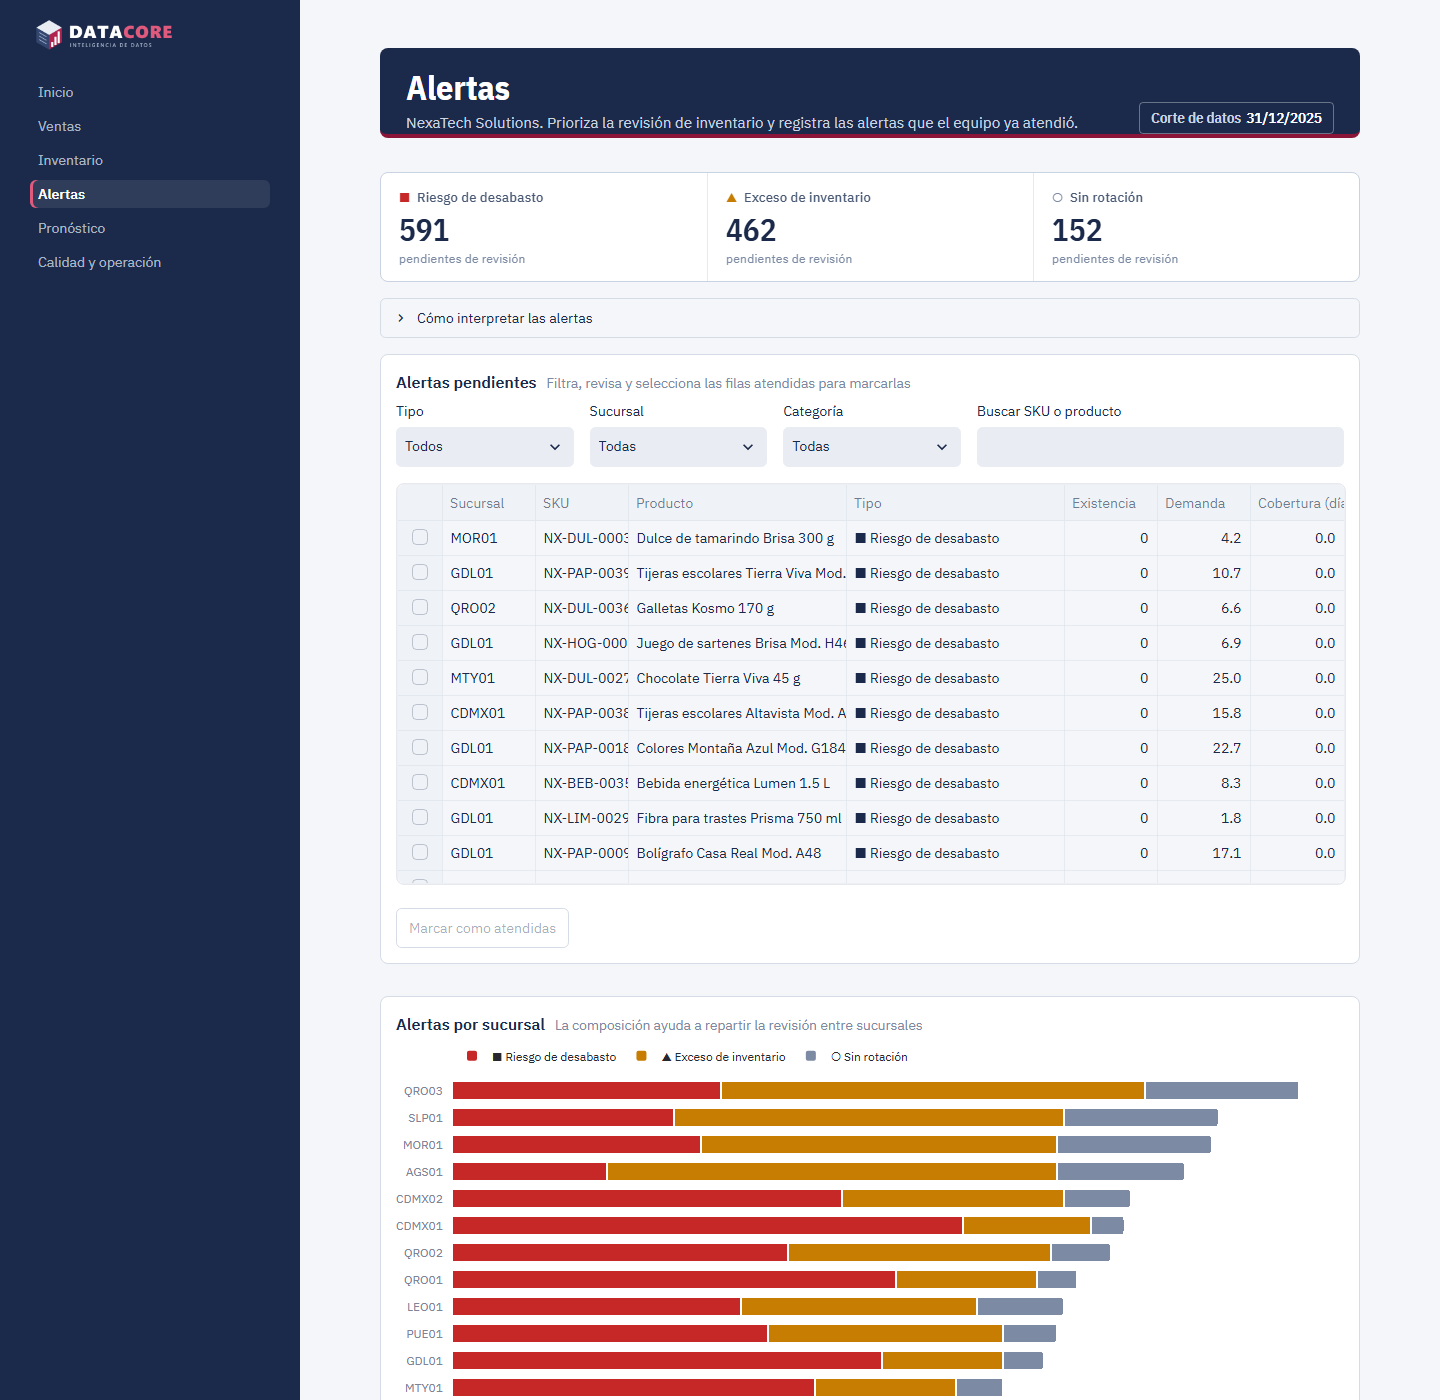
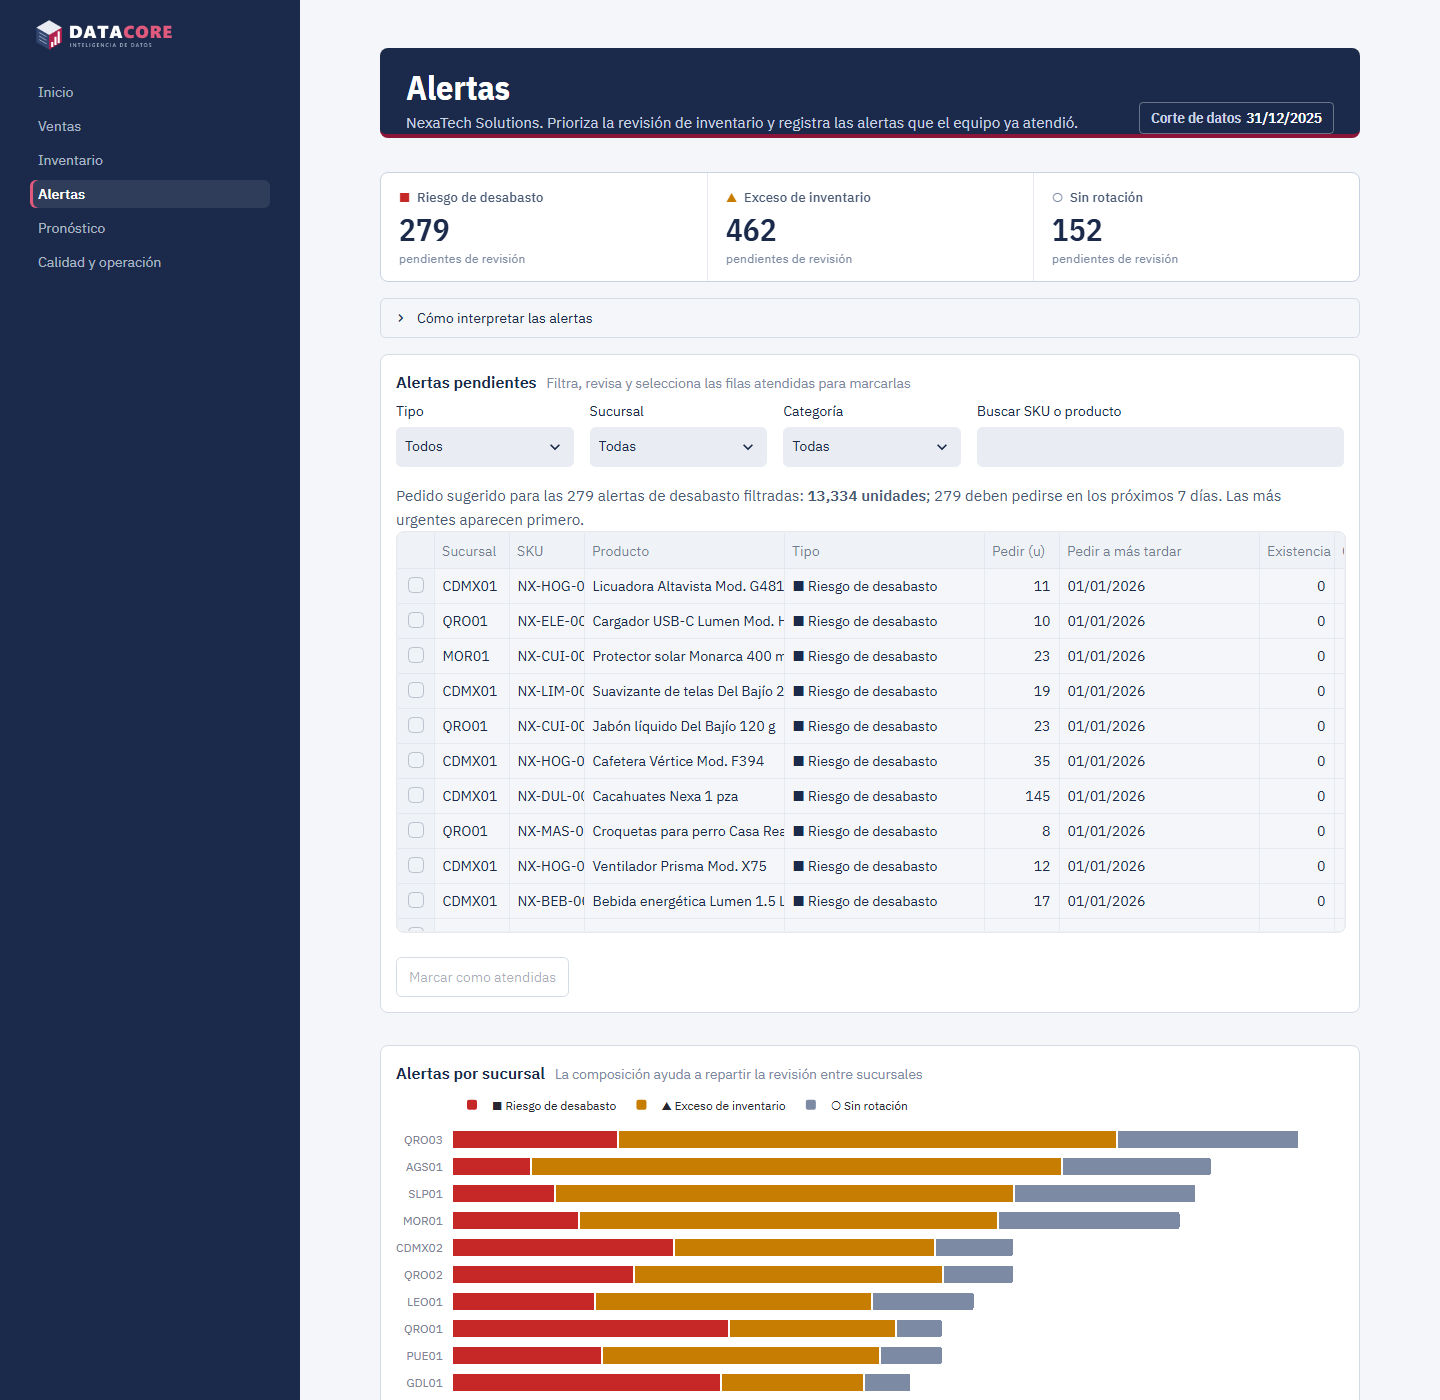
Fase 6: documentación y capturas al día con las mejoras
- README: tabla de estado con las fases de mejora (impacto, alertas, pedido sugerido, "¿por qué?",
  despliegue elegido en Azure for Students sin ejecutar) y descripción actualizada de Alertas e Inventario.
- Manual técnico: comandos `ml impacto`, `ml alertas` y `operacion inicial`; módulos nuevos y migraciones.
- Manual de usuario: pedido sugerido, fecha límite, motivo principal y explicación al seleccionar filas.
- Capturas del dashboard regeneradas con la API y el dashboard corriendo.

diff --git a/README.md b/README.md
@@ -62,11 +62,15 @@ Guía completa: [manual técnico](docs/manual_tecnico.md).
 | 7–8 | Análisis exploratorio: [reports/eda](reports/eda/README.md) | Primera versión |
 | 7–8 | Indicadores: esquema `kpi` con 9 vistas ([db/vistas.sql](db/vistas.sql)) | Listo |
 | 9–10 | Pronóstico de demanda semanal y alertas: [docs/05](docs/05_modelo_demanda.md), [reports/ml](reports/ml/backtest.md) | Listo |
-| 11–12 | API REST (FastAPI, `/docs`) y dashboard (Streamlit, 6 páginas) | Listo |
+| 11–12 | API REST (FastAPI, `/docs`) y dashboard (Streamlit, 6 páginas, rediseño con mapa de la red) | Listo |
 | 13–14 | Respaldos verificados, monitoreo, proceso diario, CI y Docker: [docs/06](docs/06_operacion_y_despliegue.md) | Listo |
-| 13–14 | Despliegue en servidor (Railway o VPS) | Pendiente: decisión del equipo |
+| Mejoras 1 | Impacto en dinero: simulación de 2025 contra la política actual, [reports/ml/impacto.md](reports/ml/impacto.md) (−14 % ventas perdidas, −12 % inventario, ≈ $346 mil al año) | Listo |
+| Mejoras 2 | Alerta de desabasto con corrección de censura, elegida fuera de muestra (F1 0.239 → 0.281): [backtest.md](reports/ml/backtest.md) | Listo |
+| Mejoras 3 | Pedido sugerido y fecha límite en cada alerta de desabasto (API y dashboard) | Listo |
+| Mejoras 4 | "¿Por qué?" de cada alerta: 2 o 3 factores en lenguaje sencillo | Listo |
+| Mejoras 5 | Despliegue en Azure for Students: imagen preparada y plan en [docs/06](docs/06_operacion_y_despliegue.md) | Elegido, no ejecutado |
 | 15–16 | [Manual técnico](docs/manual_tecnico.md) y [manual de usuario](docs/manual_usuario.md) | Primera versión |
-| 15–16 | Memoria de estadía | Pendiente |
+| 15–16 | Memoria de estadía | En redacción |
 
 ## Datos generados
 
@@ -92,8 +96,9 @@ en el entorno del proceso. Las lecturas se conservan en caché durante cinco min
 
 - **Inicio:** indicadores ejecutivos, salud del inventario, mapa de la red de 12 sucursales con sus alertas, ventas mensuales y estado de la plataforma.
 - **Ventas:** fechas y sucursal, serie diaria, media móvil, categorías y clasificación ABC histórica.
-- **Inventario:** estados, cobertura por sucursal y tasa mensual de desabasto.
-- **Alertas:** pendientes por tipo y sucursal, con acción para marcarlas como atendidas.
+- **Inventario:** barra de salud con los pares por estado, distribución por sucursal, tasa mensual de desabasto y cobertura.
+- **Alertas:** pendientes por tipo y sucursal; las de desabasto traen cantidad a pedir y fecha límite, y cada alerta
+  su motivo principal (al seleccionar filas se ve la explicación completa). Acción para marcarlas como atendidas.
 - **Pronóstico:** búsqueda por nombre/SKU, historia de 52 semanas, cuatro semanas previstas e indicadores del modelo.
 - **Calidad y operación:** hallazgos por regla y acción, ejecuciones del ETL e incidencias mensuales.
 

diff --git a/docs/manual_tecnico.md b/docs/manual_tecnico.md
@@ -71,6 +71,21 @@ src/datacore/
 db/  schema.sql (core, ops) · operacion.sql (respaldos, monitoreo, corridas) · vistas.sql (kpi)
 ```
 
+### Módulos agregados en las mejoras
+
+| módulo | qué hace |
+|---|---|
+| `ml/impacto.py` | Simula un año día a día con la política actual (órdenes reales) y con reposición guiada por DATACORE; calibra el cuantil en el año anterior. Reporte: `reports/ml/impacto.md`. |
+| `ml/alertas_segmentadas.py` | Evalúa fuera de muestra reglas de alerta (p90, media, umbral único, por segmento, con corrección de censura). Regla elegida: `reports/ml/regla_alertas.json`. |
+| `ml/explicaciones.py` | Arma los 2 o 3 factores ("¿por qué?") de cada alerta con reglas sobre sus cantidades. |
+| `ml/publicacion.py` (`recomendacion`) | Nivel objetivo, cantidad sugerida y fecha límite de cada alerta de desabasto. |
+| `operacion/datos.py` | Genera los datos simulados si `data/raw` está vacío (servidores nuevos). |
+| `dashboard/static/fuentes`, `dashboard/datos` | Fuentes IBM Plex (OFL) y contornos de los estados para el mapa; se sirven con `enableStaticServing`. |
+
+Los pronósticos fuera de muestra de 7 bloques se guardan en `data/impacto/` (no se versiona). Las columnas
+`nivel_objetivo`, `cantidad_sugerida`, `fecha_limite` y `motivos` de `ops.alertas_inventario` llegan a una base
+existente con `python -m datacore.db_setup` (migraciones al final de `db/operacion.sql`).
+
 ## 5. Tareas frecuentes
 
 | Necesito… | Comando |
@@ -80,6 +95,9 @@ db/  schema.sql (core, ops) · operacion.sql (respaldos, monitoreo, corridas) ·
 | Refrescar las vistas materializadas | `python -m datacore.db_setup --refrescar` |
 | Correr el ETL sin tocar la base | `python -m datacore.etl --sin-carga --evaluar` |
 | Evaluar el modelo contra baselines | `python -m datacore.ml evaluar` |
+| Medir el impacto en dinero contra la política actual | `python -m datacore.ml impacto [--tasa-mantener 0.25] [--recalcular]` (≈1 min con la caché; ≈4 min con `--recalcular`) |
+| Comparar reglas de alerta fuera de muestra | `python -m datacore.ml alertas` (usa la misma caché de pronósticos) |
+| Carga inicial de un servidor nuevo | `python -m datacore.operacion inicial` (base, datos simulados, ETL, modelo y anomalías) |
 | Respaldar y verificar | `python -m datacore.operacion respaldo --verificar` |
 | Restaurar un respaldo en la base viva | `pg_restore -h localhost -U datacore_app -d datacore --clean --if-exists backups\<archivo>.dump` |
 | Revisar el estado | `python -m datacore.operacion monitoreo` |

diff --git a/docs/manual_usuario.md b/docs/manual_usuario.md
@@ -27,6 +27,8 @@ Se usa desde el navegador, en el **dashboard**.
 5. **Clasificación ABC:** los productos A generan el 80 % del ingreso; los B, el siguiente 15 %; los C, el resto.
 
 ### Inventario
+Arriba, una barra reparte todos los pares sucursal-producto por estado, con su cantidad y porcentaje; debajo, las mismas cifras una por una.
+
 - **Pares por estado:**
   - *sin existencia*: no hay piezas;
   - *bajo mínimo*: hay menos que el punto de reorden;
@@ -45,7 +47,14 @@ Las genera el modelo de pronóstico cada día:
 | **EXCESO_INVENTARIO** | Al ritmo pronosticado, la existencia dura más de 180 días. | Frenar las compras, considerar promociones o traspasos a otras sucursales. |
 | **SIN_ROTACION** | Hay piezas, no se vende nada desde hace 13 semanas y no se espera demanda. | Evaluar liquidar o descontinuar. |
 
-Para registrar que una alerta ya se atendió, selecciónala en la lista y pulsa **Marcar como atendida**. Desaparece de los pendientes.
+Cada alerta de **riesgo de desabasto** trae dos columnas para actuar:
+
+- **Pedir (u):** las unidades para llegar al nivel recomendado (la demanda esperada mientras llega el pedido, más un colchón para la variación). No descuenta pedidos que ya estén en camino: réstalos tú.
+- **Pedir a más tardar:** el último día para pedir y recibir antes de que se agote, al ritmo de venta esperado. La lista muestra primero las más urgentes y, arriba de la tabla, el total de unidades sugeridas.
+
+La columna **Motivo principal** dice por qué salió la alerta (por ejemplo, "Ya no hay existencia y un pedido tarda 6 días en llegar"). Si **seleccionas una o varias filas**, debajo de la tabla aparece la explicación completa de cada una, con 2 o 3 factores (temporada, tendencia, días que estuvo agotado…) y el pedido sugerido.
+
+Para registrar que una alerta ya se atendió, selecciónala en la lista y pulsa **Marcar como atendidas**. Desaparece de los pendientes.
 
 > En las pruebas, una de cada cuatro alertas de desabasto terminó en un faltante real, y las alertas anticiparon cerca de un tercio de los faltantes. Úsala como lista de revisión priorizada, no como orden de compra automática. Si el producto estuvo agotado en las últimas semanas, la alerta lo toma en cuenta: en ese tiempo se vendió menos de lo que los clientes pidieron.
 
